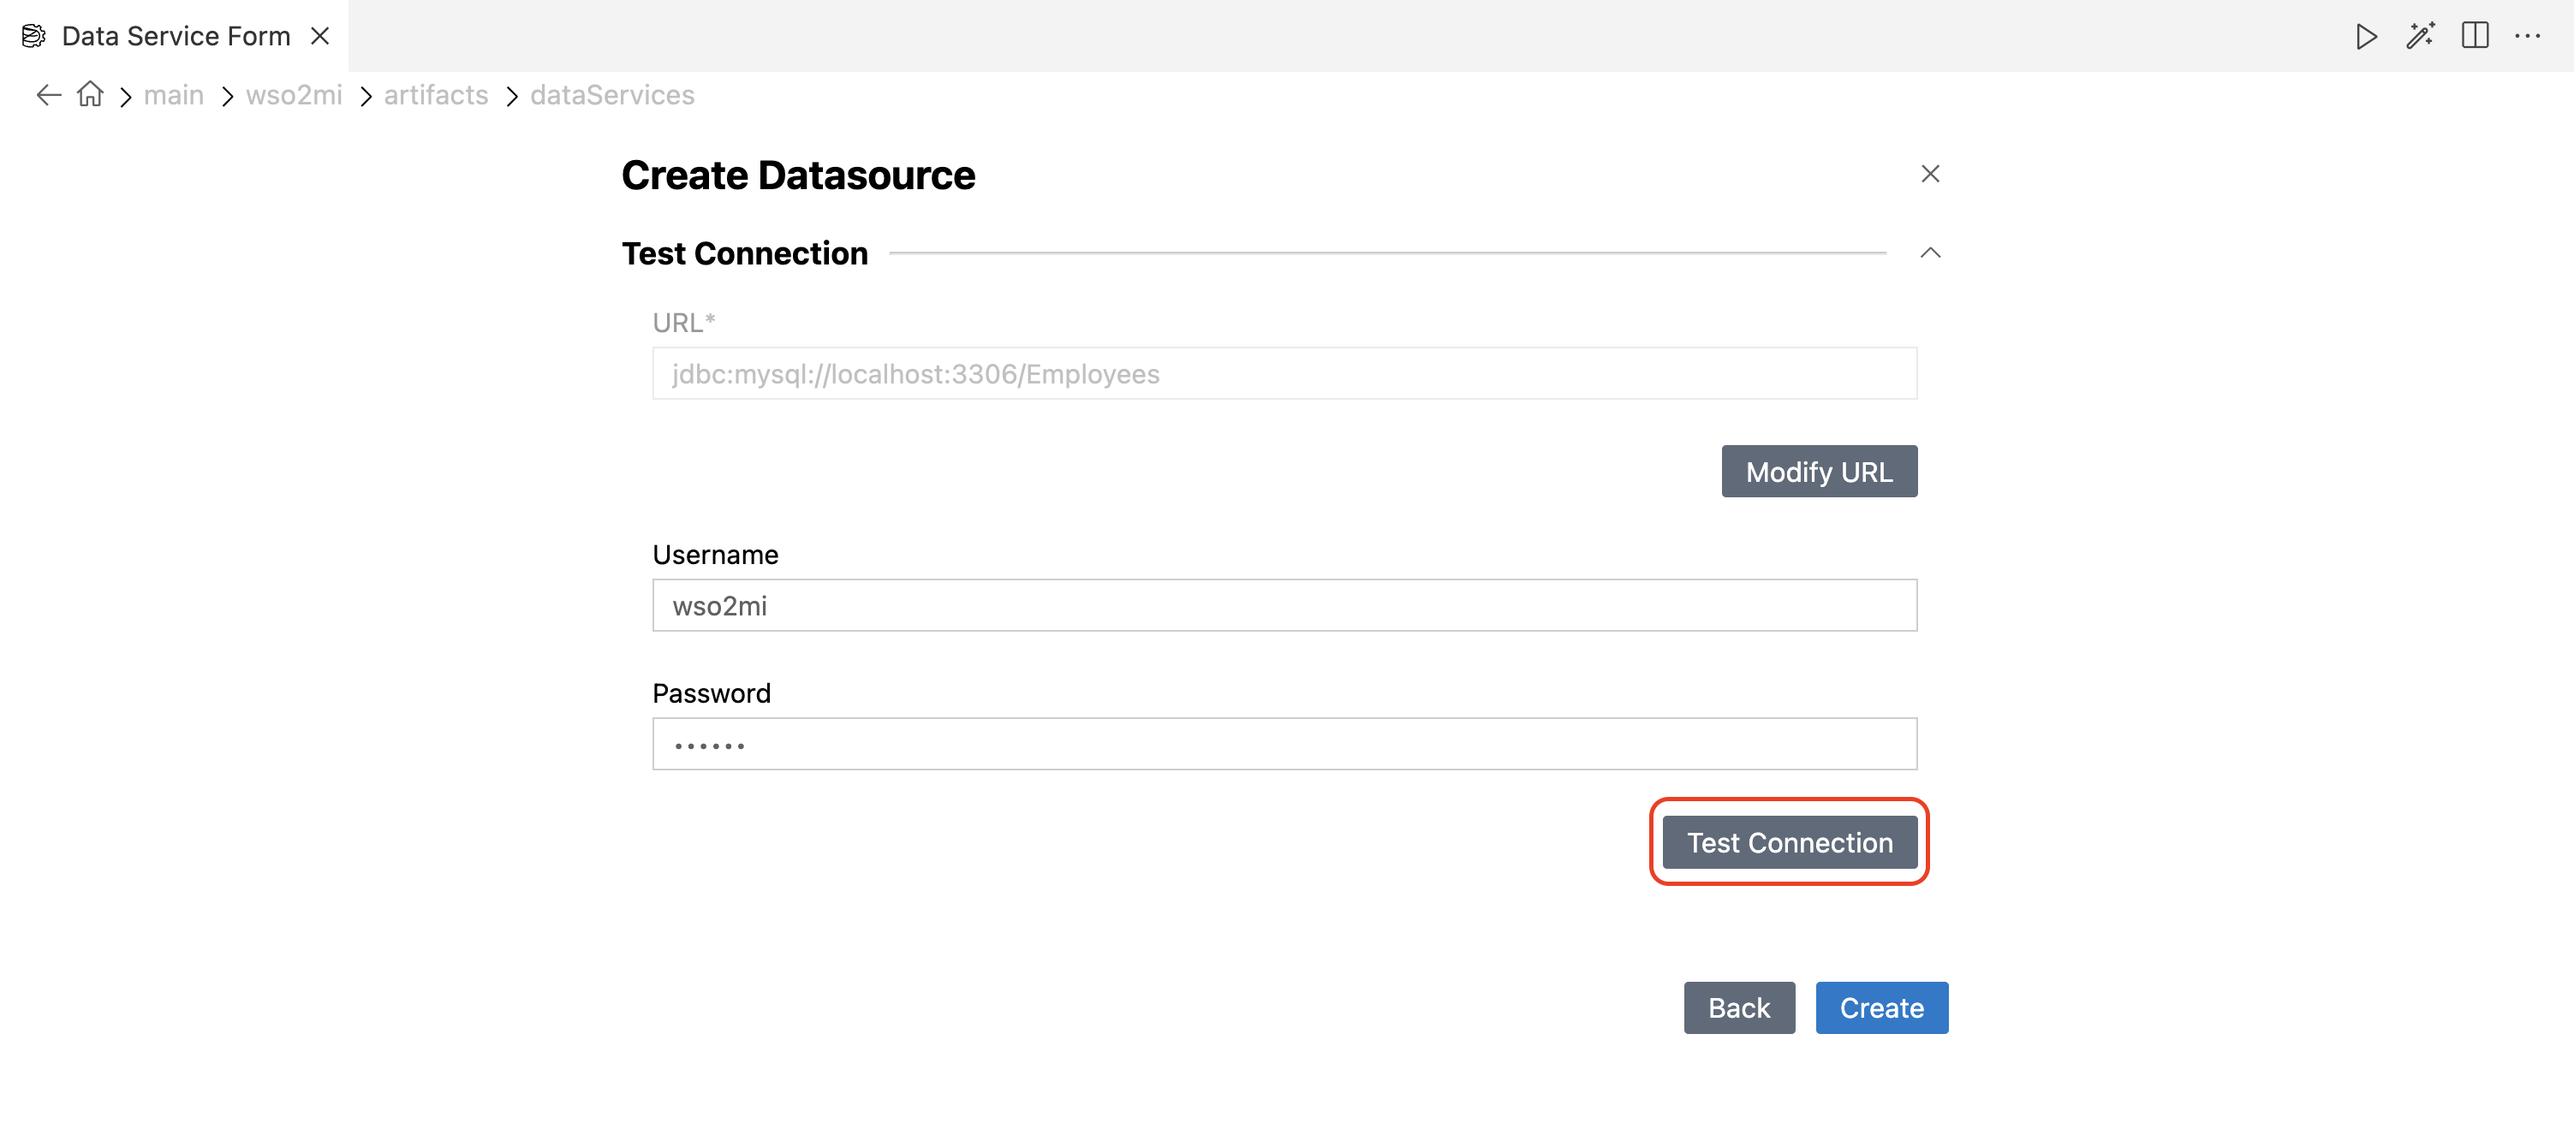
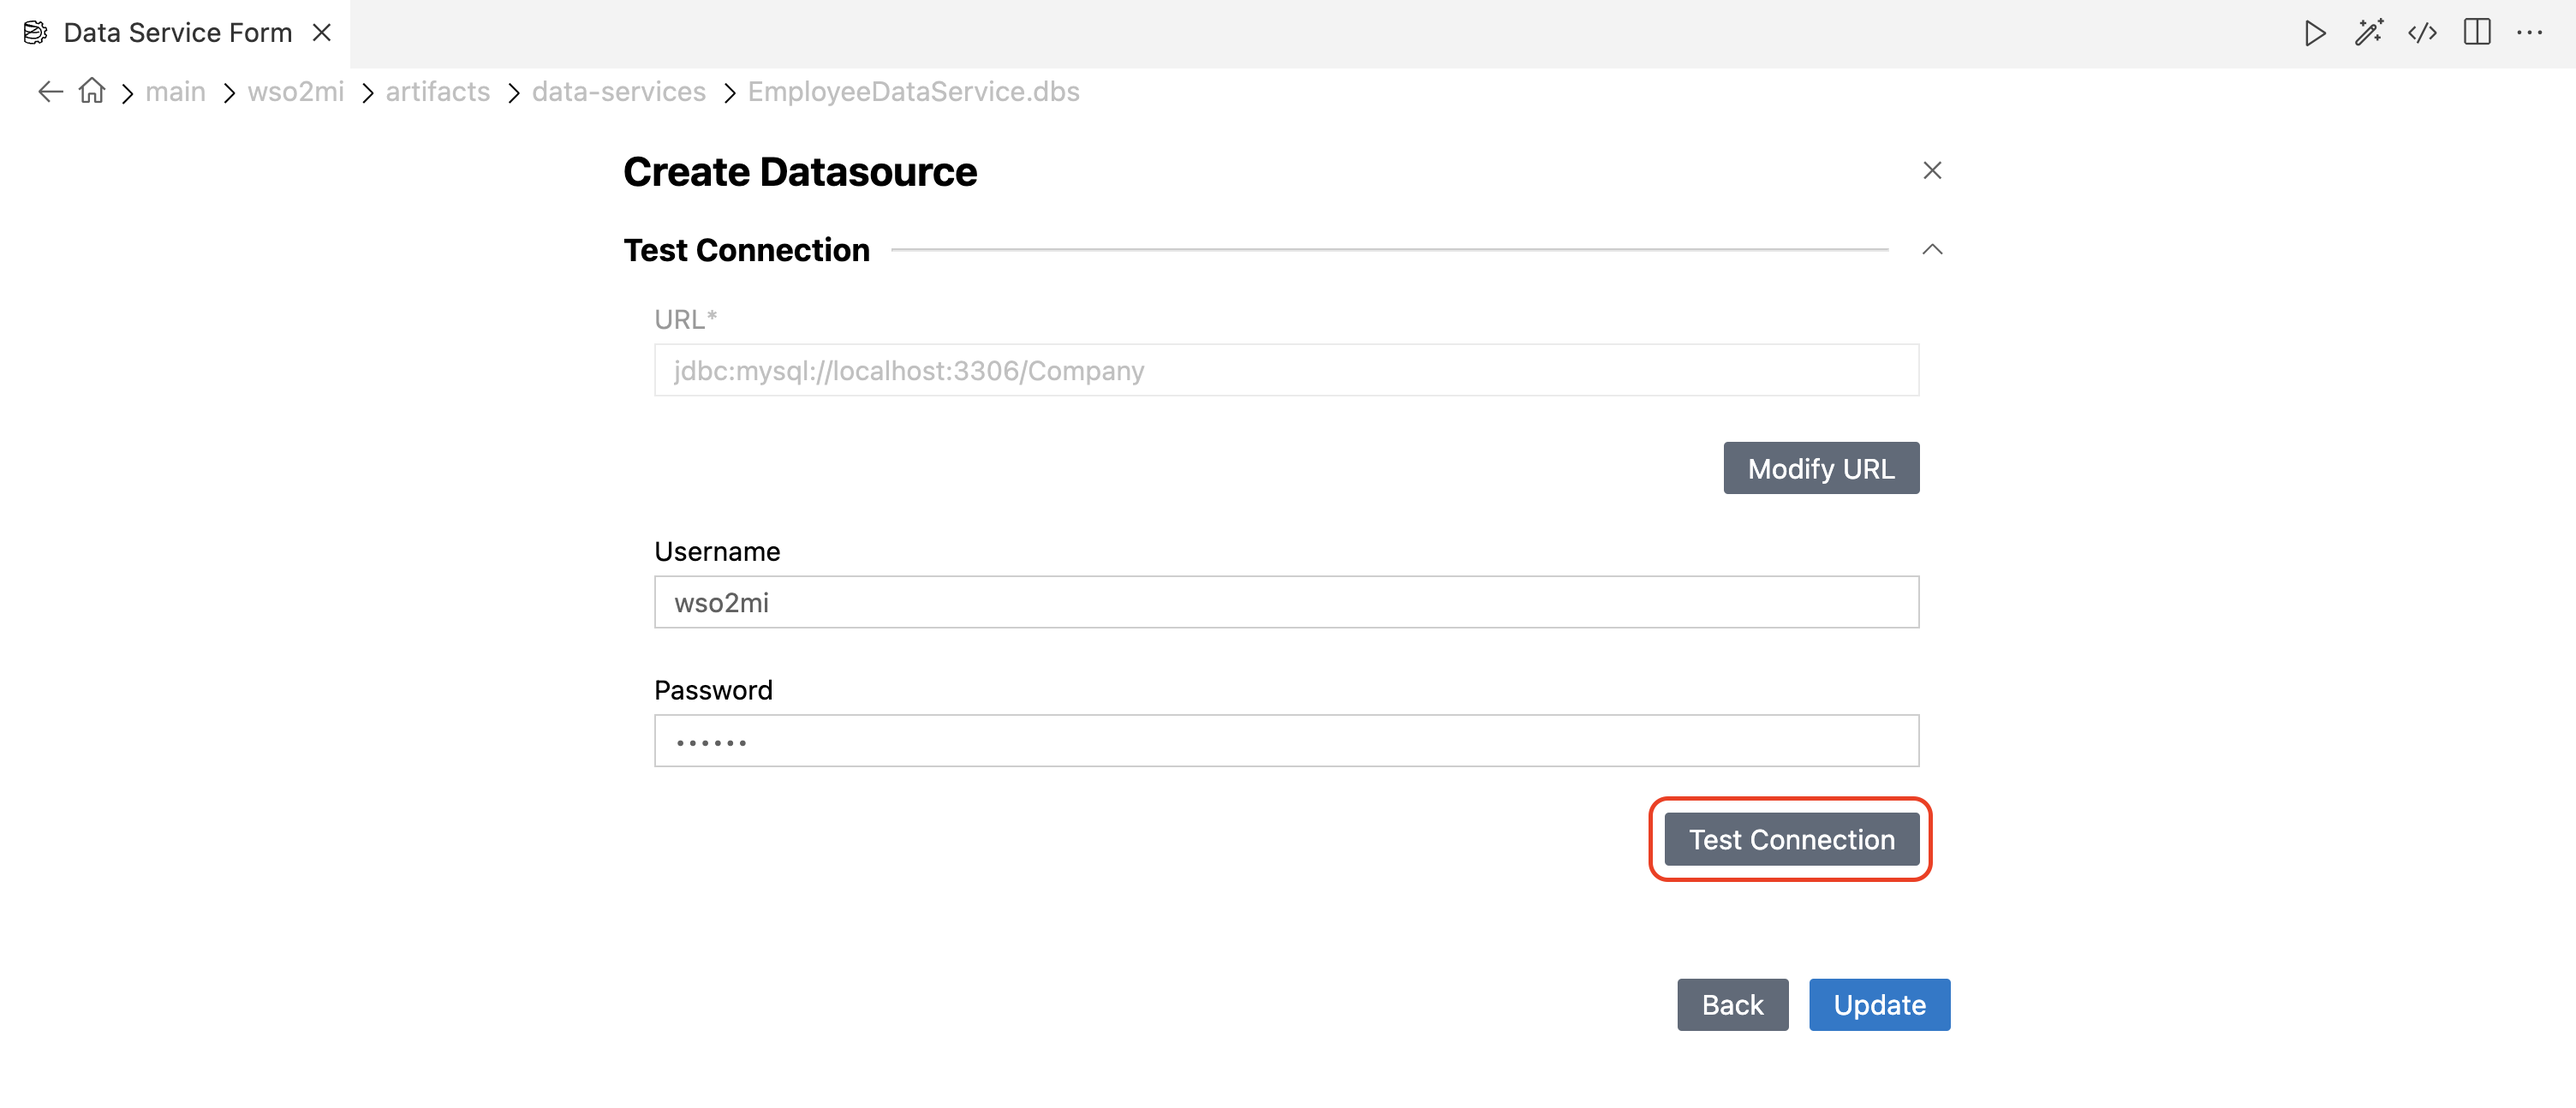
Fix review comments

diff --git a/en/docs/learn/integration-tutorials/sending-a-simple-message-to-a-datasource.md b/en/docs/learn/integration-tutorials/sending-a-simple-message-to-a-datasource.md
@@ -1,4 +1,4 @@
-# Build your first Data Service
+# How to Expose a Datasource as a Service
 
 ## What you'll build
 
@@ -21,25 +21,25 @@ Follow the steps below to set up the MySQL server.
 
 1. Install the <a target="_blank" href="https://www.mysql.com/downloads/">MySQL</a> server.
 
-2. Connect to the MySQL server using a MySQL client to create and populate the necessary database for this tutorial. Follow the steps below to create the `Employees` database, a new user named `wso2mi`, and the `Employee` table.
+2. Connect to the MySQL server using a MySQL client to create and populate the necessary database for this tutorial. Follow the steps below to create the `Company` database, a new user named `wso2mi`, and the `Employees` table.
     
-3. Create a database named `Employees`.
+3. Create a database named `Company`.
 
     ```bash
-    CREATE DATABASE Employees;
+    CREATE DATABASE Company;
     ```
 
 4. Create a user and grant the user access to the Database.
 
     ```
     CREATE USER 'wso2mi'@'localhost' IDENTIFIED BY 'wso2mi';
-    GRANT ALL PRIVILEGES ON Employees.* TO 'wso2mi'@'localhost';
+    GRANT ALL PRIVILEGES ON Company.* TO 'wso2mi'@'localhost';
     ```
 
-5. Create the Employee table inside the Employees database:
+5. Create the Employees table inside the Company database:
 
     ```bash
-    USE Employees;
+    USE Company;
     CREATE TABLE Employees (EmployeeNumber int(11) NOT NULL, FirstName varchar(255) NOT NULL, LastName varchar(255) DEFAULT NULL, Email varchar(255) DEFAULT NULL, Salary varchar(255));
     INSERT INTO Employees (EmployeeNumber, FirstName, LastName, Email, Salary) values (3, "Edgar", "Code", "edgar@rdbms.com", 100000);
     ```
@@ -121,7 +121,7 @@ Once you click **Create**, the **Add Artifact** pane will be opened.
                     <strong>Database Name</strong>
                 </td>
                 <td>
-                    <code>Employees</code>
+                    <code>Company</code>
                 </td>
                 <td>Name of the database to connect to.</td>
             </tr>
@@ -147,7 +147,7 @@ Once you click **Create**, the **Add Artifact** pane will be opened.
     </table>
 
     !!! Note
-        We will leave the rest of the configurations as default. For advanced configurations, refer to [Datasource Parameters]({{base_path}}/reference/synapse-properties/data-services/datasource-configuration-parameters/).
+        The rest of the configurations will be left as default. For advanced configurations, refer to [Datasource Parameters]({{base_path}}/reference/synapse-properties/data-services/datasource-configuration-parameters/).
 
     <a href="{{base_path}}/assets/img/learn/tutorials/data-service/datasource-form.png"><img src="{{base_path}}/assets/img/learn/tutorials/data-service/datasource-form.png" width="80%"></a>
 
@@ -179,7 +179,7 @@ Now, let's create a REST resource that will be used to invoke the SQL query.
 
     <a href="{{base_path}}/assets/img/learn/tutorials/data-service/add-resource.png"><img src="{{base_path}}/assets/img/learn/tutorials/data-service/add-resource.png" width="80%"></a>
 
-    In the next step, we will create a resource that accepts the Employee Number as a path parameter, which will be used to query the SQL database.
+    In the next step, you will create a resource that accepts the Employee Number as a path parameter. This value will be used to query the SQL database.
 
 3. Enter the following resource details, then click **Add** to insert the resource into the Data Service.
 
@@ -229,7 +229,7 @@ Let’s write an SQL query to retrieve data from the MySQL data source you confi
 
     <a href="{{base_path}}/assets/img/learn/tutorials/data-service/c.png"><img src="{{base_path}}/assets/img/learn/tutorials/data-service/input-mapping.png" width="80%"></a>
 
-    Here, we will map the `EmployeeNumber` path parameter to the SQL query variable `employee_number`, which will be used in the SQL query.
+    Here, you will map the `EmployeeNumber` path parameter to the SQL query variable `employee_number`, which will be used in the SQL query.
 
 3. Click **Add Parameter**, specify the following values, and click **Save** to add the input mapping for the Employee Number.
 
@@ -263,7 +263,7 @@ Let’s write an SQL query to retrieve data from the MySQL data source you confi
 
 4. Finally, click **Submit** in the **Edit Input Mapping** pane to complete the input mapping configuration.
 
-5. Click on **Query** in the **DataService** view. Here, we will write the SQL query to retrieve employee data using the SQL query variable `employee_number`.
+5. Click on **Query** in the **DataService** view. Here, you will write the SQL query to retrieve employee data using the `employee_number` SQL query variable.
     
 6. Enter the following SQL query in the **Query / Expression** field, then click **Submit** to save the query.
 
@@ -276,13 +276,13 @@ Let’s write an SQL query to retrieve data from the MySQL data source you confi
 
     <a href="{{base_path}}/assets/img/learn/tutorials/data-service/define_query.png"><img src="{{base_path}}/assets/img/learn/tutorials/data-service/define_query.png" width="30%"></a>
 
-7. Click on **Transformation** in the **DataService** view. Here, we will set the content type to **JSON**, as the user expects a JSON response.
+7. Click on **Transformation** in the **DataService** view. Here, you will set the content type to **JSON**, as the client expects a JSON response.
 
 8. Choose `JSON` as the **Output Type**, then click **Submit** to save the transformation settings.
     
     <a href="{{base_path}}/assets/img/learn/tutorials/data-service/transformation.png"><img src="{{base_path}}/assets/img/learn/tutorials/data-service/transformation.png" width="80%"></a>
 
-9. Click on **Output Mapping** in the **DataService** view. Here, we will create the response JSON using the SQL results (`EmployeeNumber`, `FirstName`, `LastName`, and `Email`) retrieved from the query defined earlier.
+9. Click on **Output Mapping** in the **DataService** view. Here, you will define the response JSON using the SQL results (`EmployeeNumber`, `FirstName`, `LastName`, and `Email`) retrieved from the query defined earlier.
     
 10. Provide the following JSON template, then click **Submit** to save the output mapping.
     
@@ -348,8 +348,6 @@ Let's send a request to the API resource. You can use Postman or any other **HTT
             </td>
         </tr>
      </table>
-     
-     <img src="{{base_path}}/assets/img/integrate/tutorials/119132155/rdbms-employee.png" width="800">
      
 If you want to send the client request from your terminal:
 

diff --git a/en/docs/learn/integration-use-case/data-integration-overview.md b/en/docs/learn/integration-use-case/data-integration-overview.md
@@ -10,7 +10,7 @@ The data services functionality that is embedded in the Micro Integrator can dec
 			<b>Tutorials</b></br>
 			<ul>
 				<li>
-					Try the end-to-end use case on <a href="{{base_path}}/learn/integration-tutorials/sending-a-simple-message-to-a-datasource">Build your first Data Service</a>
+					Try the end-to-end use case on <a href="{{base_path}}/learn/integration-tutorials/sending-a-simple-message-to-a-datasource">How to Expose a Datasource as a Service</a>
 				</li>
 			</ul>
 		</td>

diff --git a/en/docs/develop/creating-artifacts/data-services/creating-data-services.md b/en/docs/develop/creating-artifacts/data-services/creating-data-services.md
@@ -288,7 +288,7 @@ You can configure output result parameters for the query using this section.
 
 Follow our tutorial on data services:
 
-- [Build your first Data Service]({{base_path}}/learn/integration-tutorials/sending-a-simple-message-to-a-datasource)
+- [How to Expose a Datasource as a Service]({{base_path}}/learn/integration-tutorials/sending-a-simple-message-to-a-datasource)
 
 ## Examples 
 
